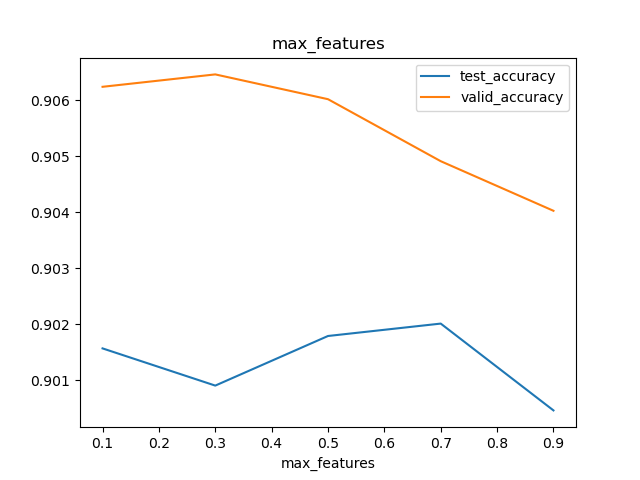
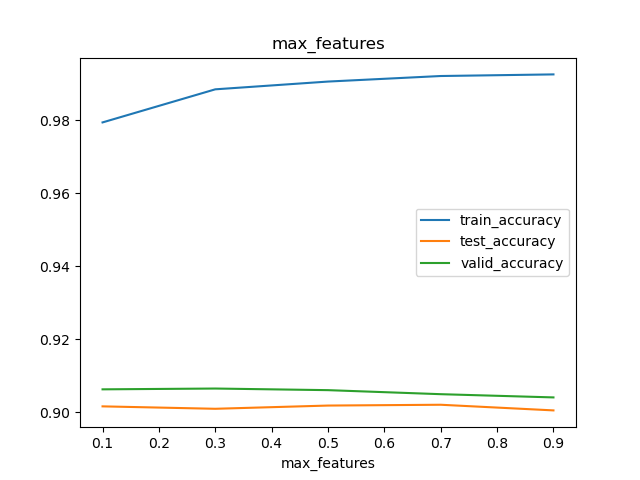
small quality of life changes and improved plots

diff --git a/Assignments/Assignment 3/Q1/Q1.py b/Assignments/Assignment 3/Q1/Q1.py
@@ -103,11 +103,10 @@ if __name__ == '__main__':
                         print(oob_accuracy, n_estimate, max_feature, min_sample_split)
                         f.write(f'{n_estimate},{max_feature},{min_sample_split},{train_accuracy},{test_accuracy},{valid_accuracy},{oob_accuracy}\n')
         with open(f'{args.output}/c_best', 'w+') as f:
-            f.write('n_estimators,max_features,min_samples_split,train_accuracy,test_accuracy,valid_accuracy,oob_accuracy\n')
+            f.write('n_estimators,max_features,min_samples_split,oob_accuracy\n')
             f.write(f'{best_params[0]},{best_params[1]},{best_params[2]},{best_oob}\n')
 
     if args.question.find('d') != -1 and args.best:
-        # read best params from file
         with open(f'{args.output}/c_best', 'r') as f:
             f.readline()
             best_params = list(map(float, f.readline().split(',')))
@@ -156,7 +155,7 @@ if __name__ == '__main__':
         with open(f'{args.output}/d_n') as f:
             df = pd.read_csv(f)
             df.columns = ['n_estimators', 'train_accuracy', 'test_accuracy', 'valid_accuracy', 'oob_accuracy']
-            df.plot(x='n_estimators', y=['test_accuracy', 'valid_accuracy'],
+            df.plot(x='n_estimators', y=['train_accuracy', 'test_accuracy', 'valid_accuracy'],
                     kind='line', title='n_estimators')
             plt.savefig(f'{args.output}/d_n.png')
             plt.clf()
@@ -164,7 +163,7 @@ if __name__ == '__main__':
         with open(f'{args.output}/d_m') as f:
             df = pd.read_csv(f)
             df.columns = ['max_features', 'train_accuracy', 'test_accuracy', 'valid_accuracy', 'oob_accuracy']
-            df.plot(x='max_features', y=['test_accuracy', 'valid_accuracy'],
+            df.plot(x='max_features', y=['train_accuracy', 'test_accuracy', 'valid_accuracy'],
                     kind='line', title='max_features')
             plt.savefig(f'{args.output}/d_m.png')
             plt.clf()
@@ -172,6 +171,6 @@ if __name__ == '__main__':
         with open(f'{args.output}/d_s') as f:
             df = pd.read_csv(f)
             df.columns = ['min_samples_split', 'train_accuracy', 'test_accuracy', 'valid_accuracy', 'oob_accuracy']
-            df.plot(x='min_samples_split', y=['test_accuracy', 'valid_accuracy'],
+            df.plot(x='min_samples_split', y=['train_accuracy', 'test_accuracy', 'valid_accuracy'],
                     kind='line', title='min_samples_split')
             plt.savefig(f'{args.output}/d_s.png')
